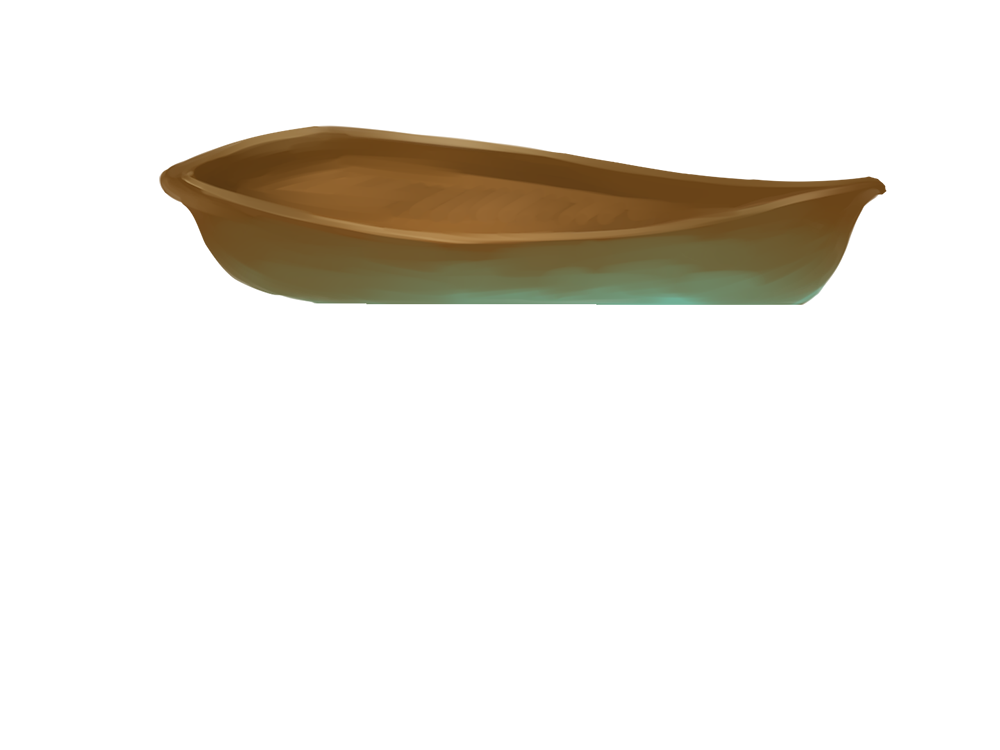
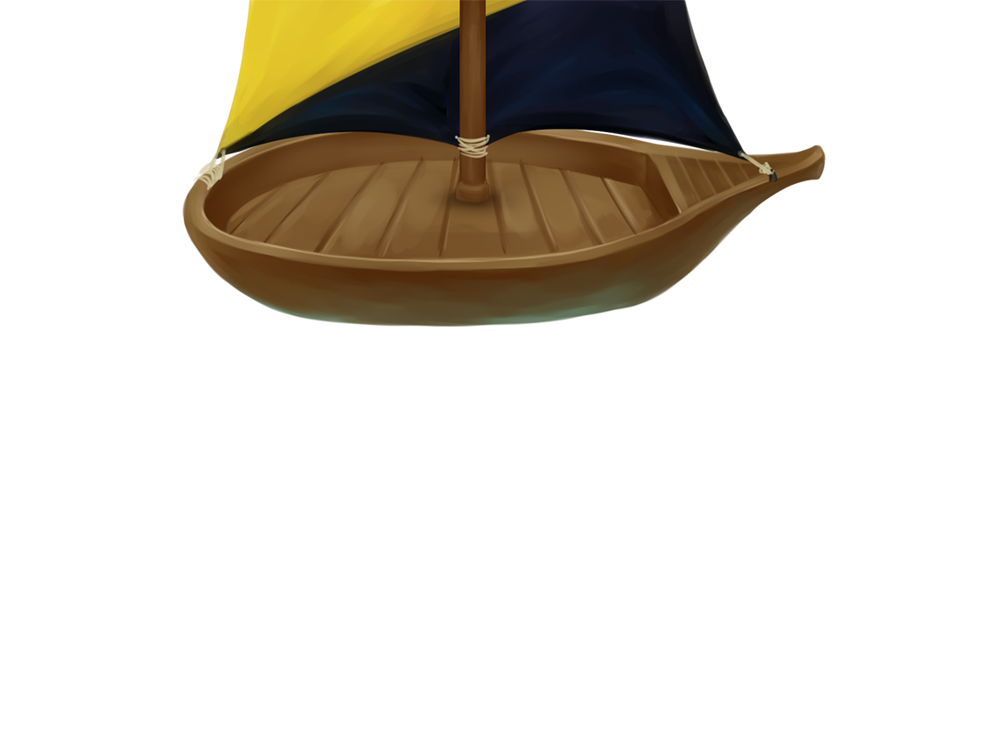
Updated ship graphic and rearranged inventory to match.

Changed region(s): [[0.155, 0.0, 0.899, 0.46], [0.31, 0.2147, 0.341, 0.2453]]

diff --git a/src/inventory.js b/src/inventory.js
@@ -8,12 +8,12 @@ const {Visibility} = require('./visibility');
 const {overlapsBounds} = require('./bounds');
 
 const slotPositions = [
-    {left: .29, top: .15, width: .05, height: .05},
-    {left: .37, top: .17, width: .05, height: .05},
-    {left: .43, top: .19, width: .05, height: .05},
-    {left: .55, top: .17, width: .05, height: .05},
-    {left: .61, top: .19, width: .05, height: .05},
-    {left: .42, top: .14, width: .05, height: .05},
+    {left: .25, top: .19, width: .05, height: .05},
+    {left: .32, top: .17, width: .05, height: .05},
+    {left: .33, top: .22, width: .05, height: .05},
+    {left: .39, top: .15, width: .05, height: .05},
+    {left: .40, top: .21, width: .05, height: .05},
+    {left: .48, top: .22, width: .05, height: .05},
 ];
 
 addHandler('start', (session) => {

diff --git a/src/title.js b/src/title.js
@@ -13,7 +13,7 @@ addHandler('start', (session) => {
     let text = new TextAvatar(position, session.scene.camera);
     text.text = 'Comparative Advantage';
     text.textAlign = 'center';
-    text.textBaseline = 'bottom';
+    text.textBaseline = 'middle';
     text.fillStyle = '#dfdfef';
     text.strokeStyle = '#444';
     text.lineWidth = 4;
